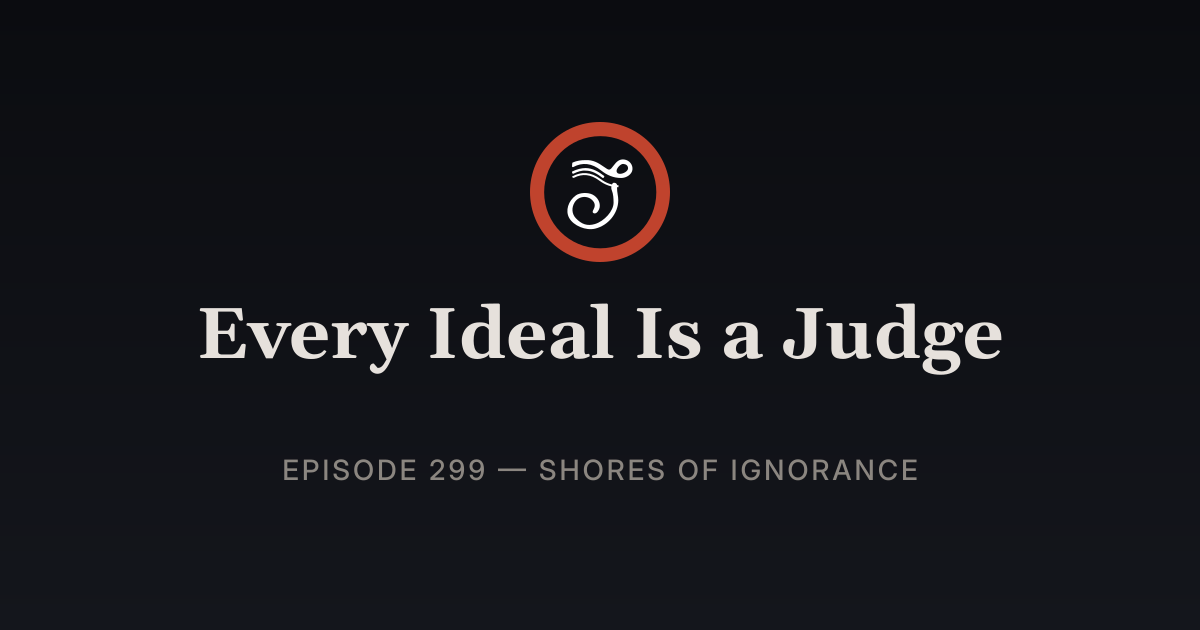
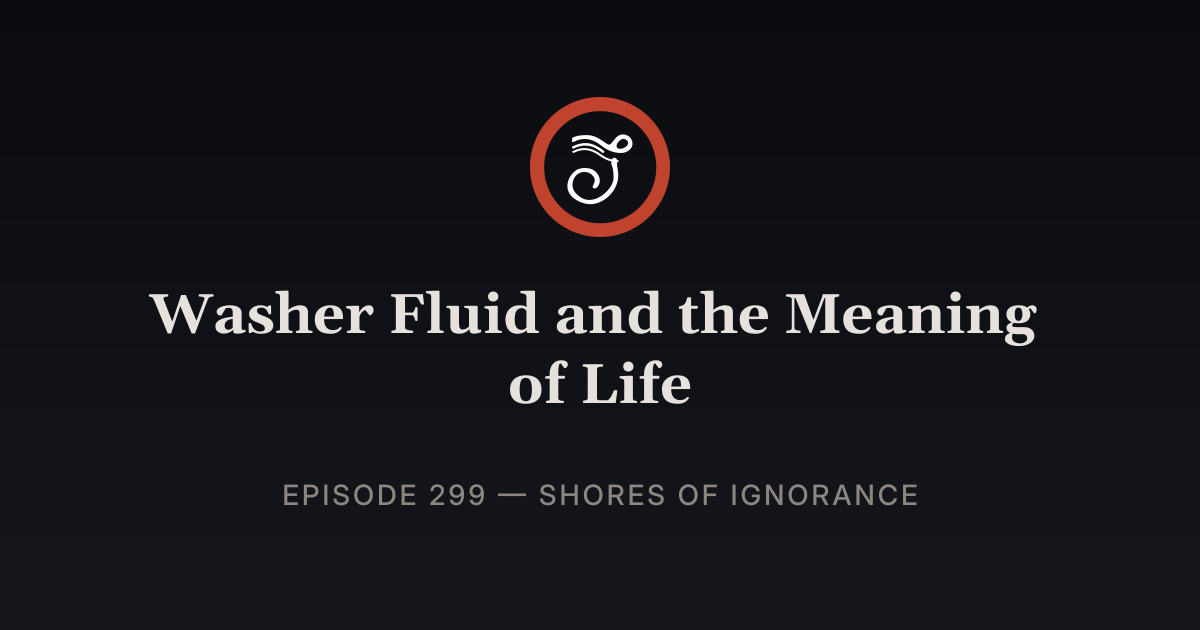
Ep 299: Washer Fluid and the Meaning of Life — sync SoundCloud link, build

Changed region(s): [[0.1233, 0.4524, 0.8633, 0.6635], [0.2158, 0.7238, 0.7708, 0.8143], [0.4317, 0.1508, 0.5858, 0.4222]]

diff --git a/episodes/299/index.html b/episodes/299/index.html
@@ -23,7 +23,7 @@ The…">
 
 The…">
   <meta name="twitter:image" content="https://shoresofignorance.com/episodes/299/og-image.png">
-  <script type="application/ld+json">{"@context":"https://schema.org","@type":"PodcastEpisode","name":"Washer Fluid and the Meaning of Life","url":"https://shoresofignorance.com/episodes/299/","description":"Once you name a thing, it judges you. So we'd rather not look. This week Michael poured a cup of water on his windshield instead of buying washer fluid.\n\nThe…","datePublished":"2026-10-15T01:51:22.000Z","episodeNumber":299,"duration":"PT94M","image":"https://shoresofignorance.com/episodes/299/og-image.png","isAccessibleForFree":true,"partOfSeries":{"@type":"PodcastSeries","name":"Shores of Ignorance","url":"https://shoresofignorance.com"},"author":[{"@type":"Person","name":"Matt McCloskey"},{"@type":"Person","name":"Michael Vaclav"}]}</script>
+  <script type="application/ld+json">{"@context":"https://schema.org","@type":"PodcastEpisode","name":"Washer Fluid and the Meaning of Life","url":"https://shoresofignorance.com/episodes/299/","description":"Once you name a thing, it judges you. So we'd rather not look. This week Michael poured a cup of water on his windshield instead of buying washer fluid.\n\nThe…","datePublished":"2026-10-15T01:51:22.000Z","episodeNumber":299,"duration":"PT94M","image":"https://shoresofignorance.com/episodes/299/og-image.png","isAccessibleForFree":true,"partOfSeries":{"@type":"PodcastSeries","name":"Shores of Ignorance","url":"https://shoresofignorance.com"},"author":[{"@type":"Person","name":"Matt McCloskey"},{"@type":"Person","name":"Michael Vaclav"}],"associatedMedia":{"@type":"MediaObject","contentUrl":"https://soundcloud.com/shoresofignorance/ep-299-washer-fluid-and-the"}}</script>
   <link rel="preconnect" href="https://fonts.googleapis.com">
   <link rel="preconnect" href="https://fonts.gstatic.com" crossorigin>
   <link href="https://fonts.googleapis.com/css2?family=Cardo:ital,wght@0,400;0,700;1,400&family=Inter:wght@400;500;600&display=swap" rel="stylesheet">
@@ -63,6 +63,14 @@ The…">
           <h1 class="episode-title">Washer Fluid and the Meaning of Life</h1>
           <p class="episode-meta">Episode 299 · October 15, 2026 · 94 min</p>
           
+          <div class="listen-buttons">
+            <span class="listen-label">Episode available on</span>
+            <div class="listen-row">
+              <a href="https://soundcloud.com/shoresofignorance/ep-299-washer-fluid-and-the" class="btn btn-primary" target="_blank" rel="noopener">🎧 SoundCloud</a>
+              
+              
+            </div>
+          </div>
         </div>
 
         <section class="detail-section">

diff --git a/index.html b/index.html
@@ -89,7 +89,7 @@
           </div>
           <div class="episode-actions">
             <a href="./episodes/299/" class="btn btn-ghost">Details</a>
-            <span class="btn btn-ghost disabled">Soon</span>
+            <a href="https://soundcloud.com/shoresofignorance/ep-299-washer-fluid-and-the" class="btn btn-ghost" target="_blank" rel="noopener">Listen</a>
           </div>
         </article>
         <article class="episode-card">
